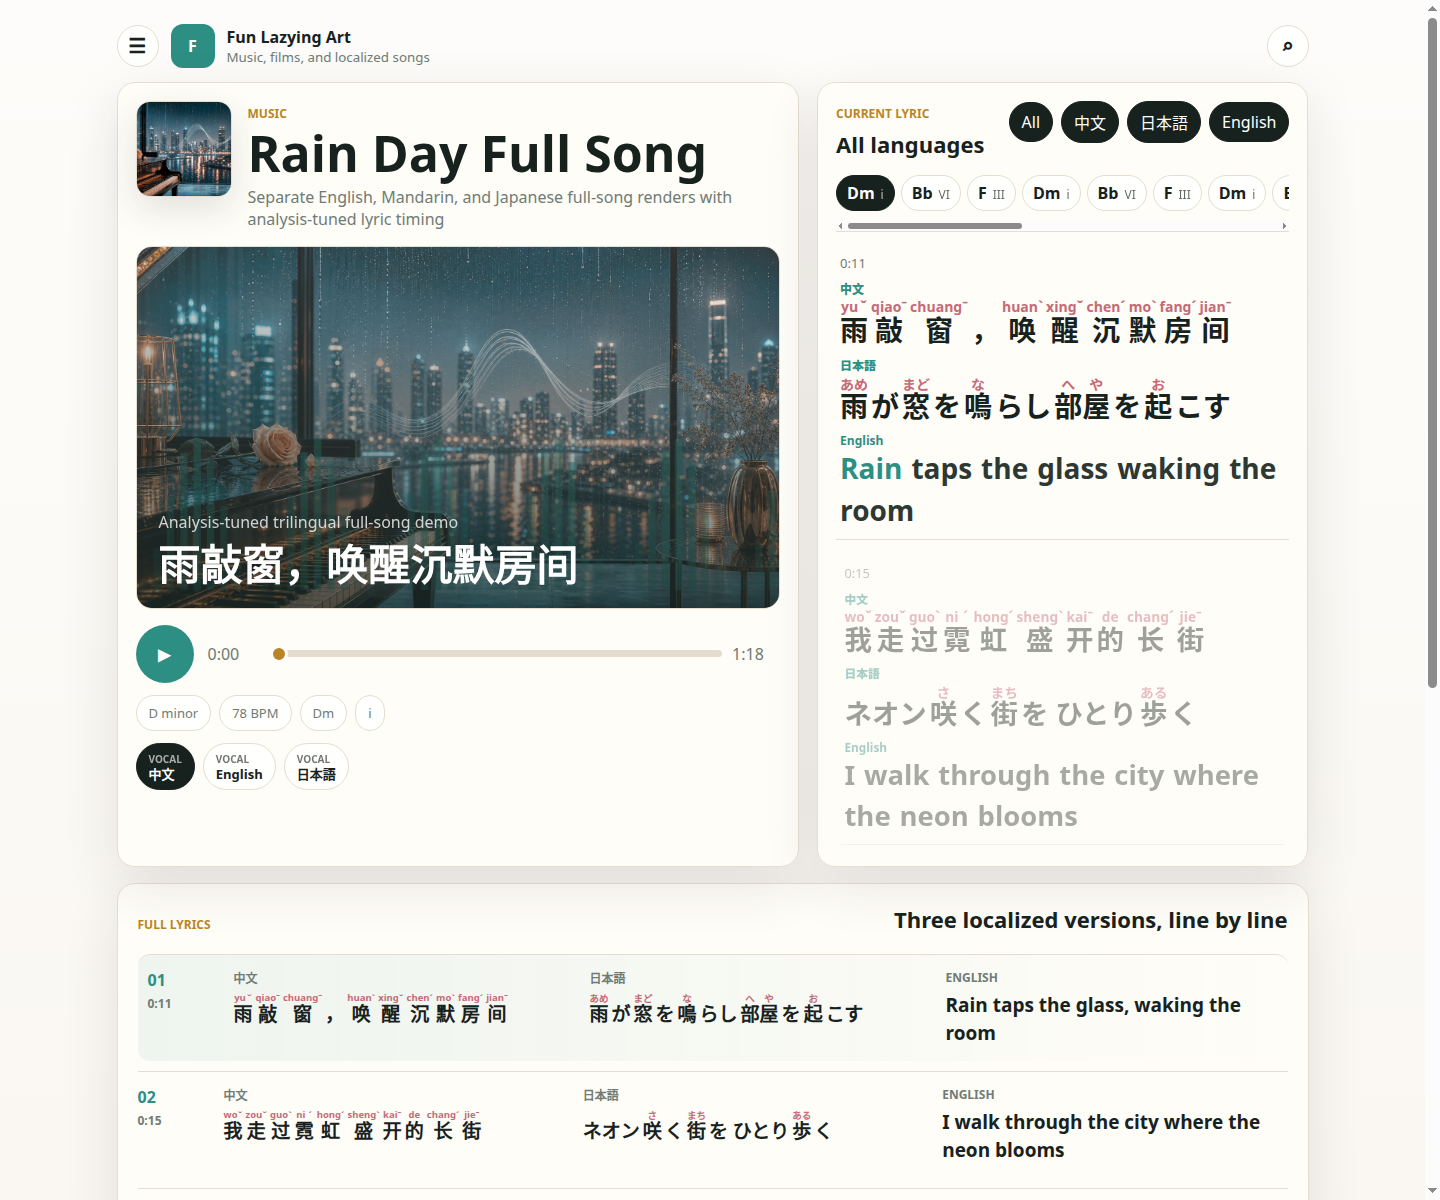
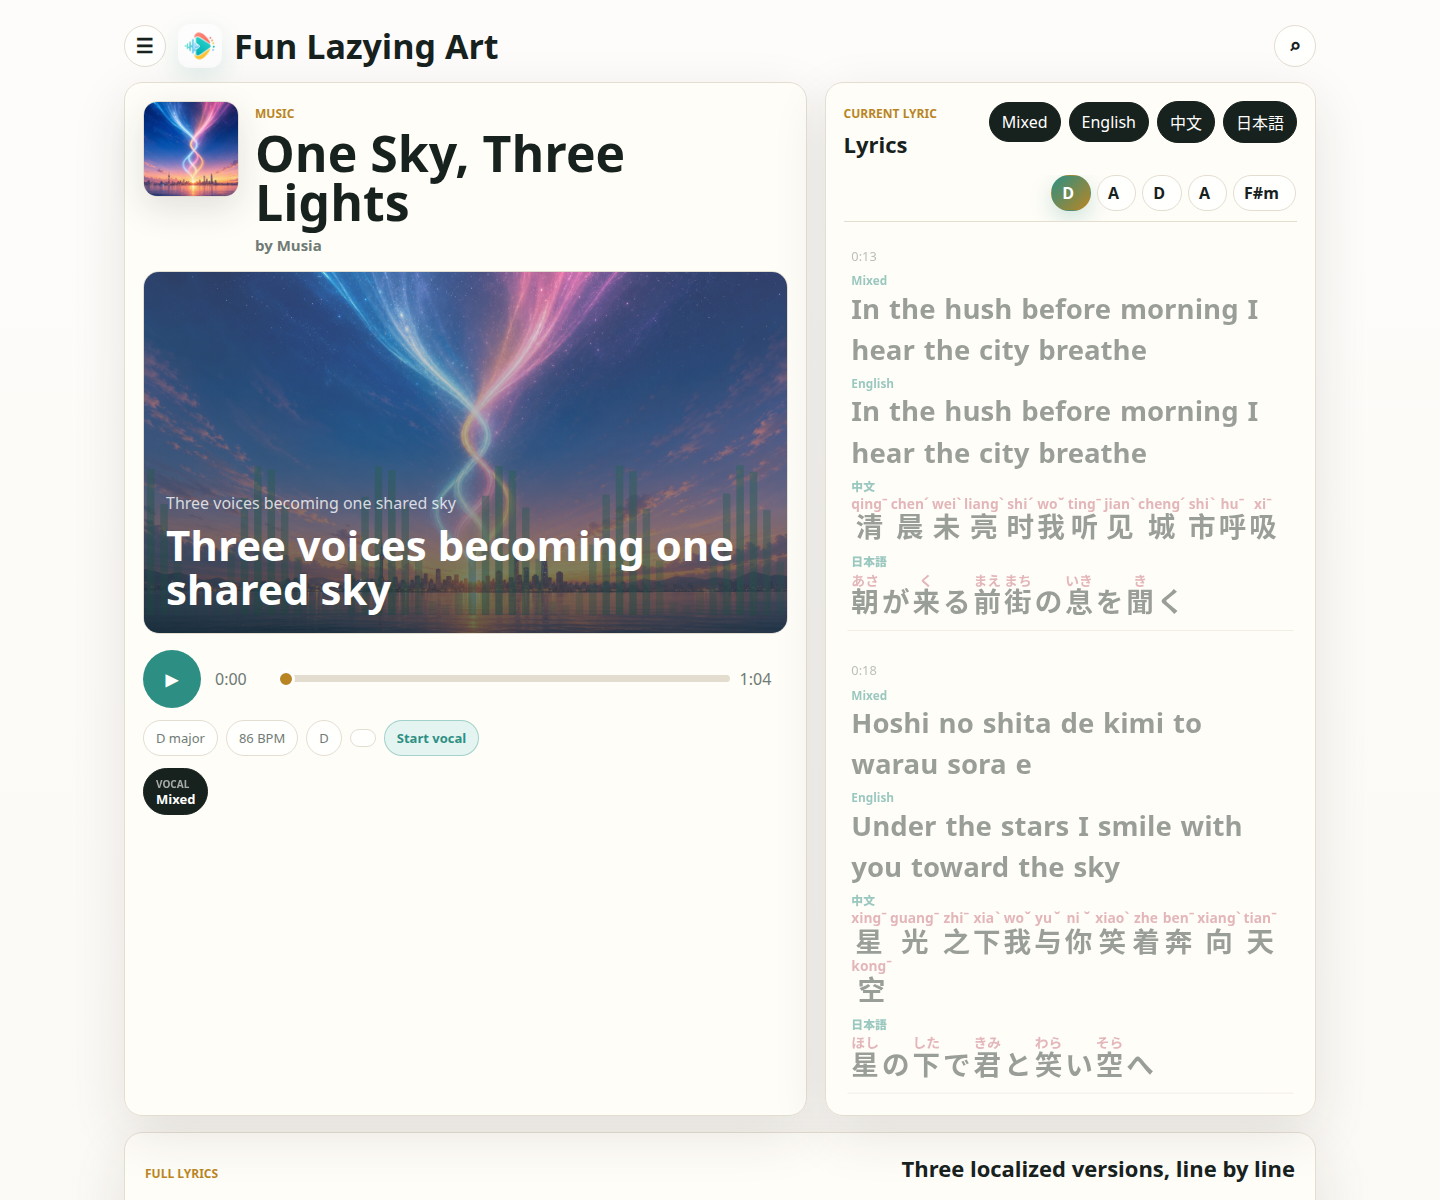
Update README screenshot for One Sky player

diff --git a/README.md b/README.md
@@ -104,7 +104,7 @@ For the full setup/test guide, see [`SETUP_AND_TEST.md`](SETUP_AND_TEST.md).
 
 The public media site lives in [`website/`](website/) and is intended for songs, localized songs, MVs, short films, covers, synced lyrics, subtitles, chords, stems, and shareable media pages.
 
-The default catalog item is `Small Under the Red Sky`, a Mars desert full-song demo with separate English, Mandarin, and Japanese renders. The catalog also includes `Rain Day Full Song`; both demos use per-vocal trilingual lyric sets when the generated renders do not sing identical lines.
+The default catalog item is `One Sky, Three Lights`, a mixed English, Mandarin-pinyin, and Japanese-romaji song with trilingual native-script lyrics, pinyin, furigana, chord timing, and translation-word highlighting. The catalog also includes `Small Under the Red Sky` and `Rain Day Full Song`; independent full-song renders use per-vocal trilingual lyric sets when the generated versions do not sing identical lines.
 
 ```bash
 npm run website:validate